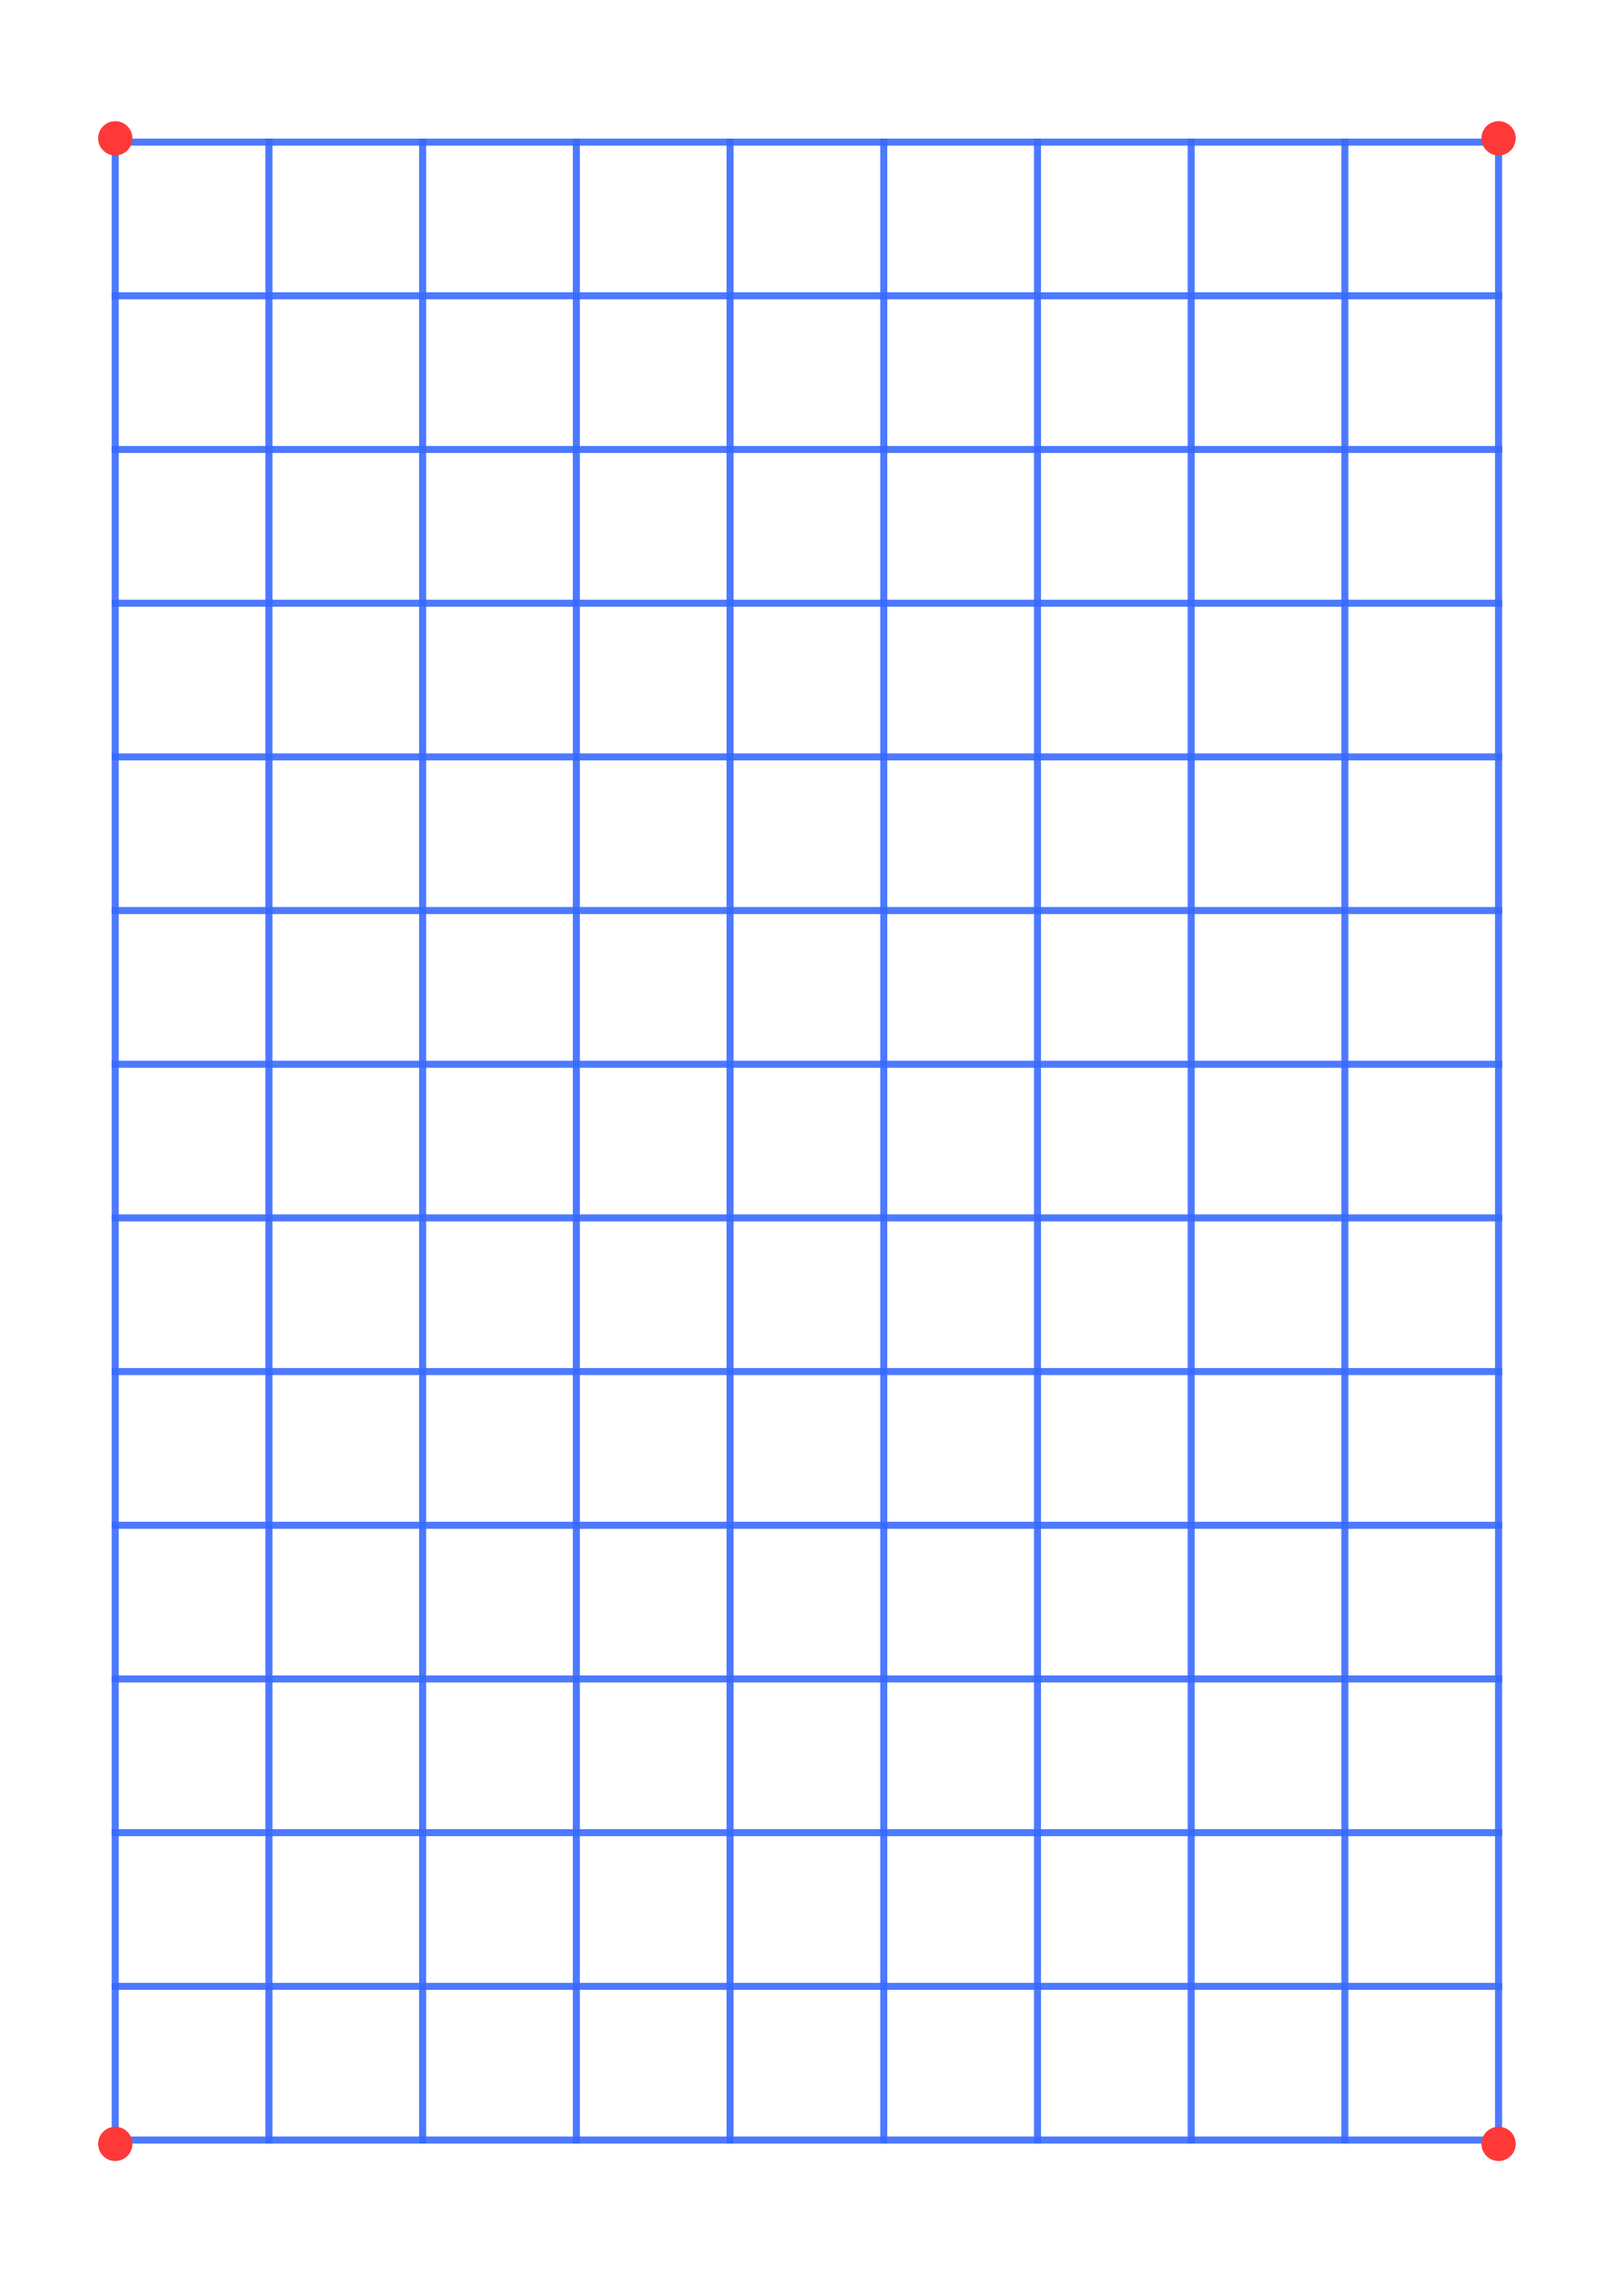
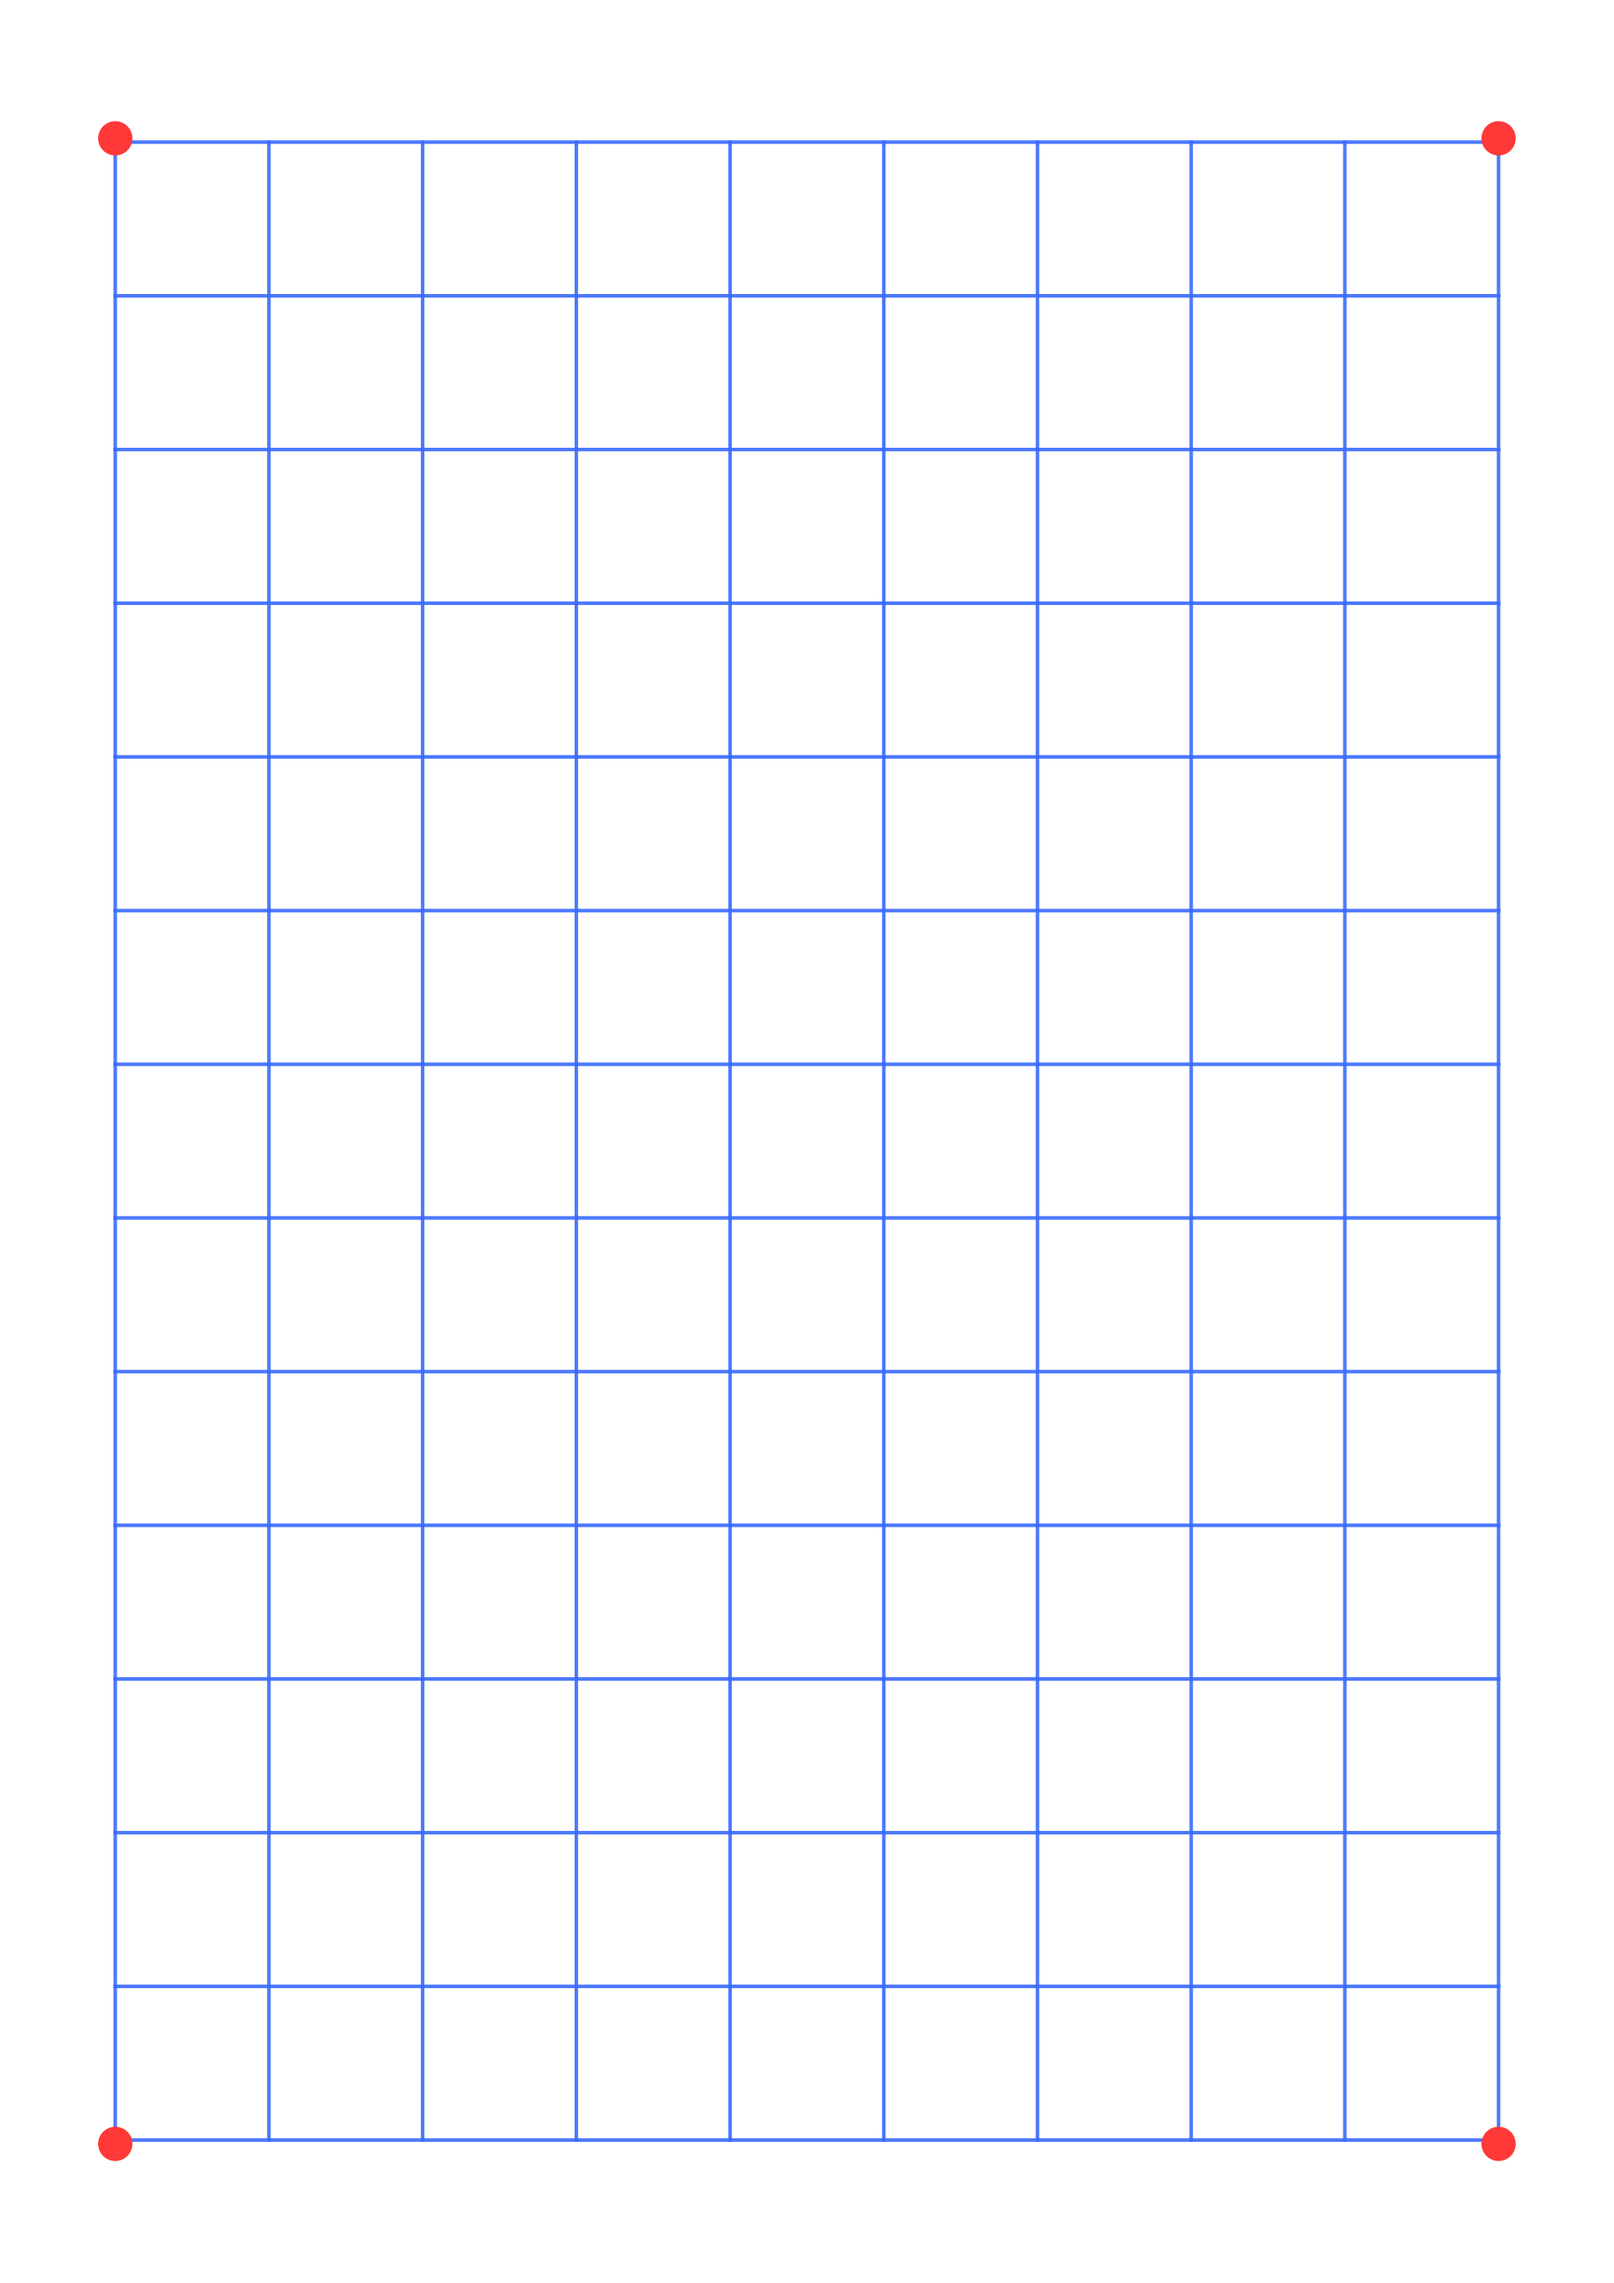
Initial commit

diff --git a/bakeground.py b/bakeground.py
@@ -51,12 +51,12 @@ def generate_grid_pdf():
     for i in range(cols + 1):
         x = offset_x + i * GRID_SIZE_MM
         plt.plot([x, x], [offset_y, offset_y + rows * GRID_SIZE_MM], 
-                'k-', linewidth=2, alpha=0.9, color = "#386aff")
+                'k-', linewidth=1, alpha=0.9, color = "#386aff")
     
     for j in range(rows + 1):
         y = offset_y + j * GRID_SIZE_MM
         plt.plot([offset_x, offset_x + cols * GRID_SIZE_MM], [y, y], 
-                'k-', linewidth=2, alpha=0.9, color = "#386aff")
+                'k-', linewidth=1, alpha=0.9, color = "#386aff")
     
     # 定位点
     marker_positions = [
